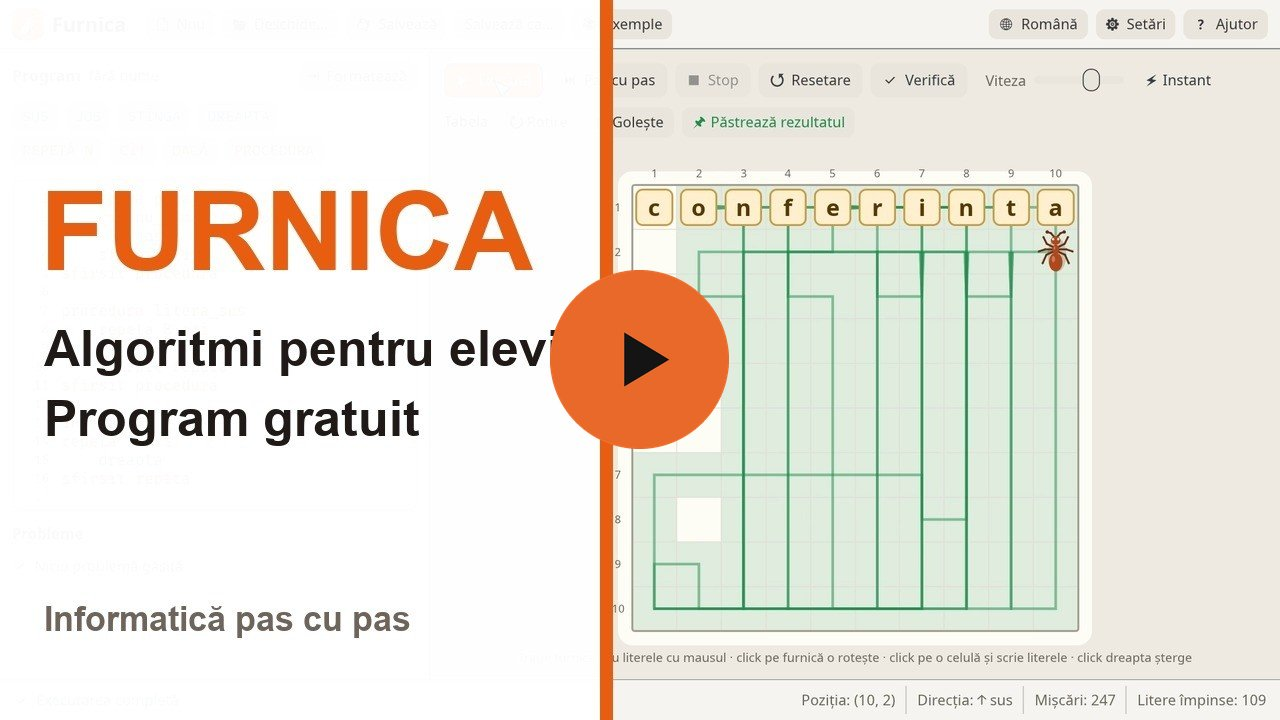
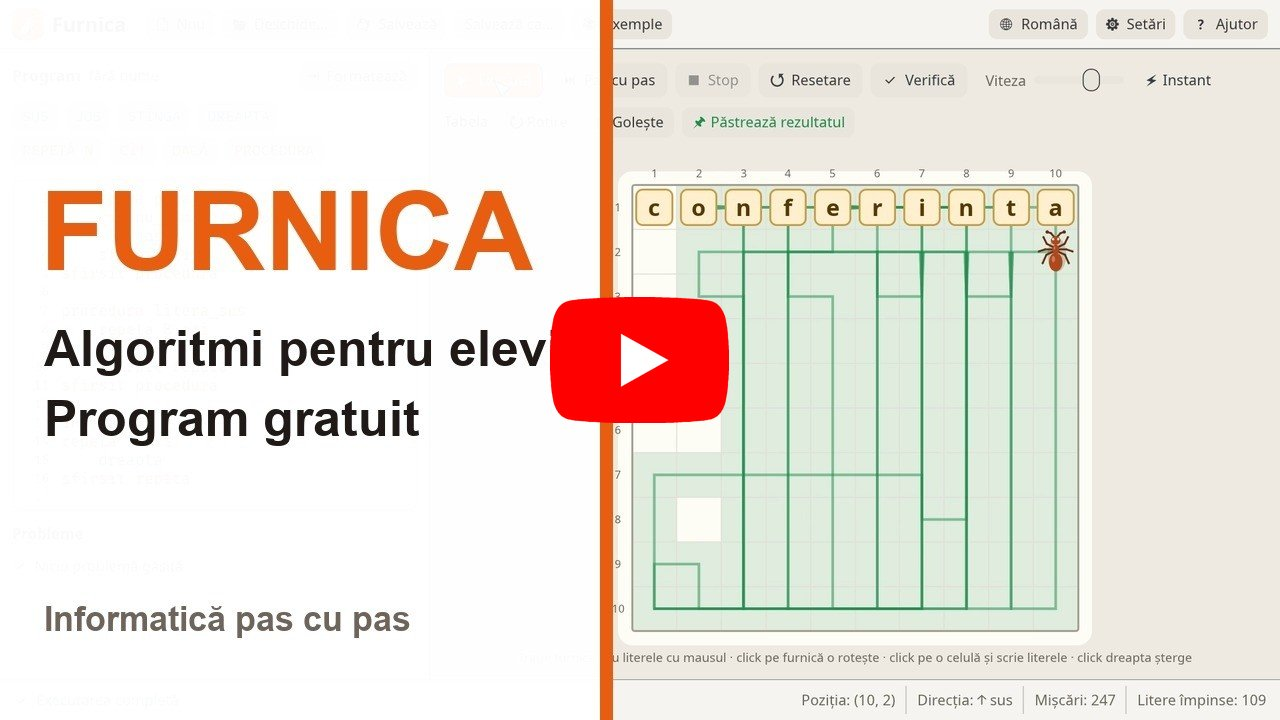
Videoclipul: butonul de pe imagine e iconița YouTube, pe pagină și în README

Changed region(s): [[0.4062, 0.3667, 0.5938, 0.6417]]

diff --git a/site/assets/style.css b/site/assets/style.css
@@ -183,31 +183,18 @@ p { margin: 0; }
 }
 a.video img { width: 100%; height: 100%; object-fit: cover; }
 .play {
+  /* Butonul YouTube: arată de unde e videoclipul. */
   position: absolute;
   top: 50%;
   left: 50%;
-  width: clamp(64px, 9vw, 96px);
-  aspect-ratio: 1;
-  border-radius: 50%;
-  background: var(--accent);
+  width: clamp(68px, 9vw, 96px);
+  height: auto;
   transform: translate(-50%, -50%);
-  transition: transform 160ms var(--ease-out), background-color 160ms ease;
-}
-.play::after {
-  /* Triunghiul, puțin spre dreapta ca să pară centrat. */
-  content: "";
-  position: absolute;
-  top: 50%;
-  left: 54%;
-  border-style: solid;
-  border-width: 0.6em 0 0.6em 1em;
-  border-color: transparent transparent transparent var(--ink);
-  font-size: clamp(16px, 2.2vw, 24px);
-  transform: translate(-50%, -50%);
+  transition: transform 160ms var(--ease-out);
 }
 a.video:active .play { transform: translate(-50%, -50%) scale(0.95); }
 @media (hover: hover) and (pointer: fine) {
-  a.video:hover .play { background: var(--accent-press); transform: translate(-50%, -50%) scale(1.06); }
+  a.video:hover .play { transform: translate(-50%, -50%) scale(1.08); }
 }
 
 /* Față de programul original */

diff --git a/site/template.html b/site/template.html
@@ -67,7 +67,7 @@
         <figure id="video" class="hero-video">
           <a class="video" href="https://www.youtube.com/watch?v=WsKpRjqqIhI" target="_blank" rel="noopener" aria-label="{{ video_play }}">
             <img src="{{ root }}assets/video.jpg" width="1280" height="720" alt="">
-            <span class="play" aria-hidden="true"></span>
+            <svg class="play" viewBox="0 0 68 48" width="68" height="48" aria-hidden="true"><path d="M66.52 7.74c-.78-2.93-2.49-5.41-5.42-6.19C55.79.13 34 0 34 0S12.21.13 6.9 1.55C3.97 2.33 2.27 4.81 1.48 7.74.06 13.05 0 24 0 24s.06 10.95 1.48 16.26c.78 2.93 2.49 5.41 5.42 6.19C12.21 47.87 34 48 34 48s21.79-.13 27.1-1.55c2.93-.78 4.64-3.26 5.42-6.19C67.94 34.95 68 24 68 24s-.06-10.95-1.48-16.26z" fill="#f00"/><path d="M45 24 27 14v20z" fill="#fff"/></svg>
           </a>
           <figcaption>{{{ video_lead }}}</figcaption>
         </figure>
